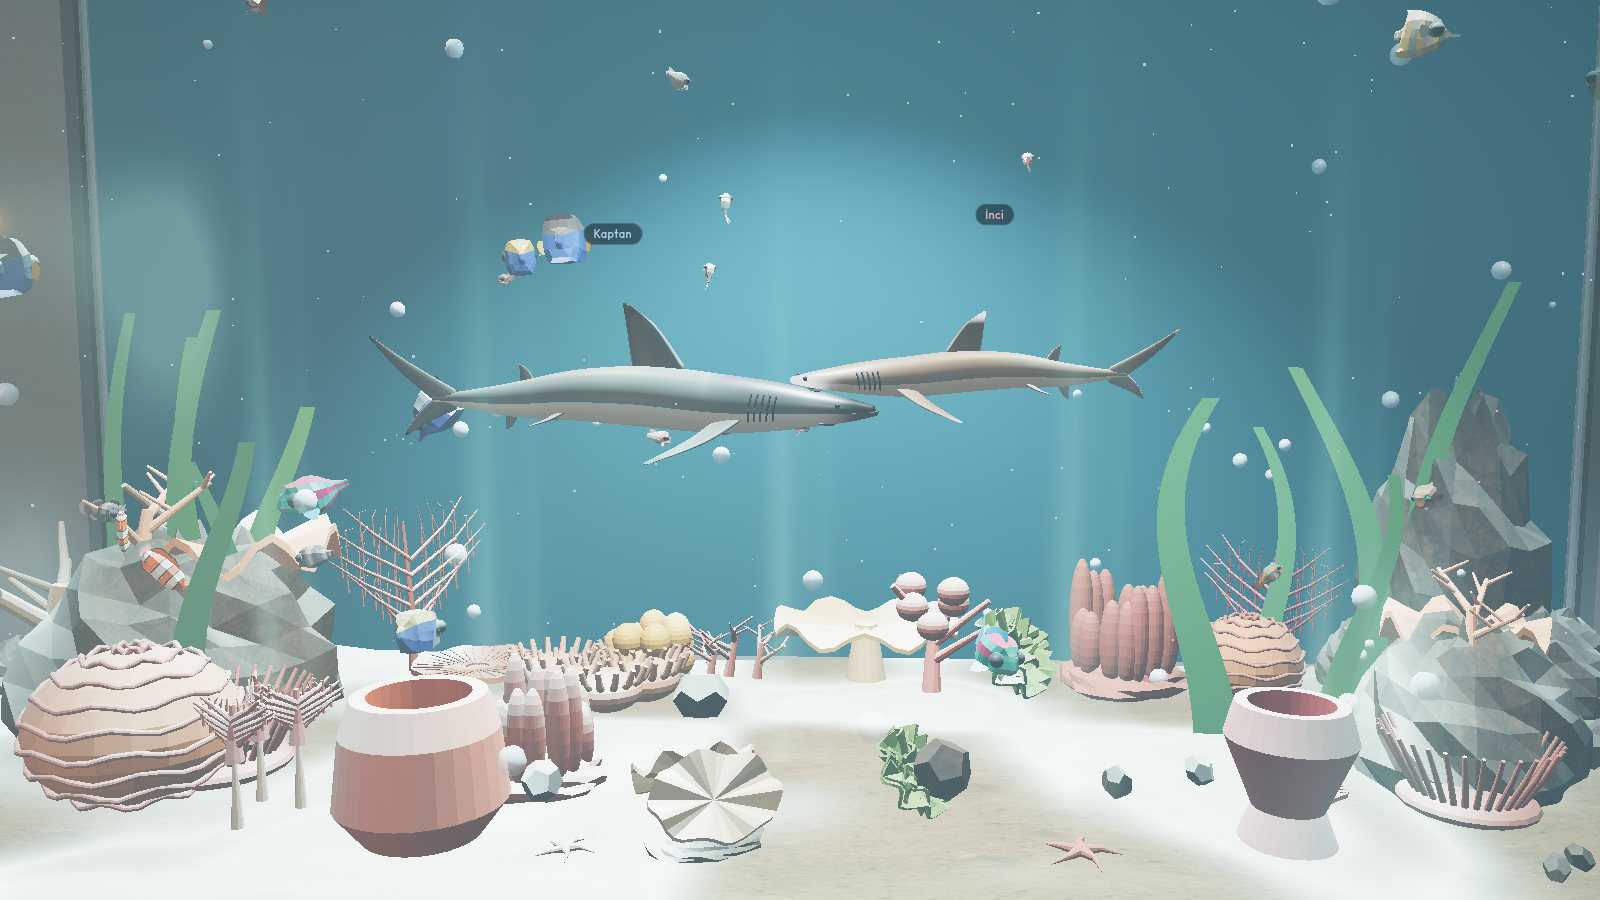
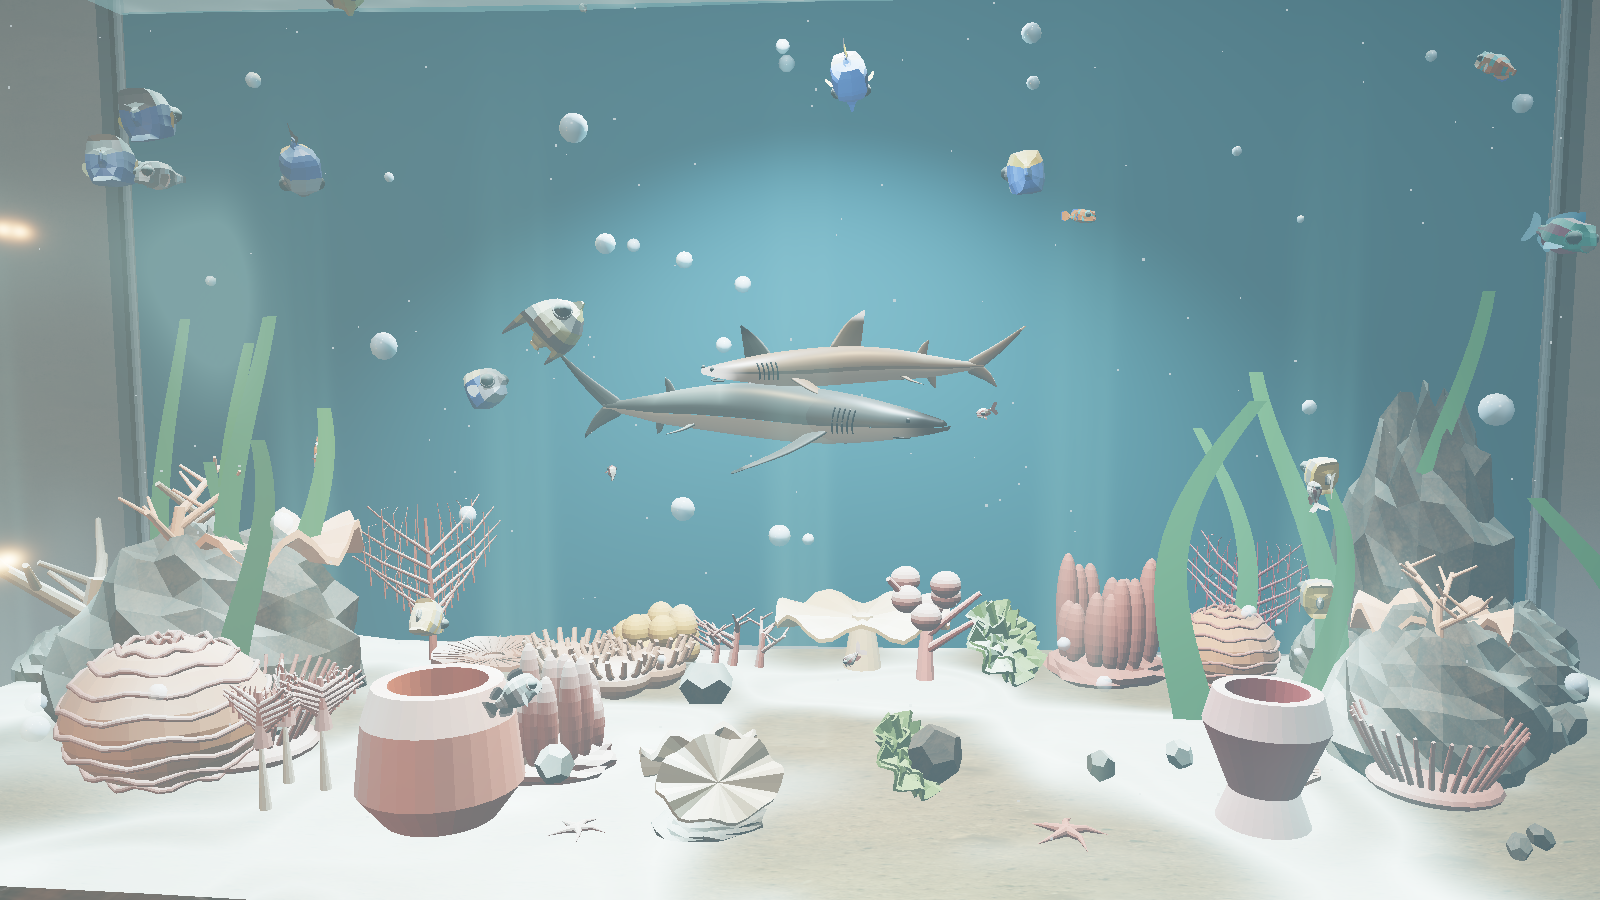
Oda: kanepe, halı ve lamba net görünsün, camda fresnel yansıması
Kanepe öne alındı ve büyütüldü, halı ve sehpa kadraja girdi, lamba daha
sıcak parlıyor, sol duvara bir tablo ve ön cama hafif fresnel eklendi.
Orta/llvmpipe görüntüleri temiz.

diff --git a/js/world.js b/js/world.js
@@ -323,9 +323,9 @@ export async function createWorld(canvas, quality, manager) {
   scene.background = new THREE.Color(0x0a0808);
   scene.fog = null;
 
-  const camera = new THREE.PerspectiveCamera(quality.mobile ? 52 : 42, 1, 0.1, 60);
-  camera.position.set(1.55, 1.42, 5.65);
-  camera.lookAt(0.0, 0.68, 0.2);
+  const camera = new THREE.PerspectiveCamera(quality.mobile ? 54 : 44, 1, 0.1, 60);
+  camera.position.set(1.85, 1.36, 5.45);
+  camera.lookAt(0.05, 0.62, 0.2);
 
   const renderer = new THREE.WebGLRenderer({
     canvas,
@@ -433,6 +433,7 @@ export async function createWorld(canvas, quality, manager) {
 
   const glass = makeGlass(quality);
   root.add(glass);
+  root.add(makeFrontGlassFresnel());
 
   const frame = makeFrame();
   root.add(frame);
@@ -444,7 +445,7 @@ export async function createWorld(canvas, quality, manager) {
   const controls = new OrbitControls(camera, renderer.domElement);
   controls.enableDamping = true;
   controls.dampingFactor = 0.07;
-  controls.target.set(0.0, 0.68, 0.2);
+  controls.target.set(0.05, 0.62, 0.2);
   controls.minDistance = 1.35;
   controls.maxDistance = 8.0;
   controls.minPolarAngle = 0.78;
@@ -697,12 +698,12 @@ function buildLivingRoom(tex, quality) {
 
   // rug
   const rug = makeRug();
-  rug.position.set(0.35, floorY + 0.008, 2.05);
+  rug.position.set(0.55, floorY + 0.008, 1.55);
   g.add(rug);
 
   // coffee table
   const table = makeCoffeeTable(tex);
-  table.position.set(0.15, floorY, 1.85);
+  table.position.set(0.45, floorY, 1.45);
   g.add(table);
 
   // floor lamp
@@ -747,10 +748,10 @@ async function loadSofa(group, manager) {
     sofa.updateMatrixWorld(true);
     const box = new THREE.Box3().setFromObject(sofa);
     const size = box.getSize(new THREE.Vector3());
-    const scale = 2.35 / Math.max(size.x, 0.001);
+    const scale = 2.85 / Math.max(size.x, 0.001);
     sofa.scale.setScalar(scale);
-    sofa.rotation.y = Math.PI + 0.18;
-    sofa.position.set(2.05, ROOM.floorY - box.min.y * scale, 2.05);
+    sofa.rotation.y = Math.PI + 0.32;
+    sofa.position.set(2.35, ROOM.floorY - box.min.y * scale, 1.62);
     group.add(sofa);
   } catch (e) {
     console.warn("Sofa failed", e);
@@ -793,7 +794,7 @@ function makeRug() {
   const mat = new THREE.MeshStandardMaterial({
     map: tex, roughness: 0.9, metalness: 0, color: 0xffffff,
   });
-  const m = new THREE.Mesh(new THREE.PlaneGeometry(2.8, 3.6), mat);
+  const m = new THREE.Mesh(new THREE.PlaneGeometry(3.2, 3.2), mat);
   m.rotation.x = -Math.PI / 2;
   m.receiveShadow = true;
   return m;
@@ -833,15 +834,15 @@ function makeFloorLamp() {
   g.add(base);
   const shadeMat = new THREE.MeshStandardMaterial({
     color: 0xf0d6a8,
-    emissive: new THREE.Color(0xffc070),
-    emissiveIntensity: 0.9,
+    emissive: new THREE.Color(0xffd090),
+    emissiveIntensity: 1.8,
     roughness: 0.6,
     side: THREE.DoubleSide,
   });
   const shade = new THREE.Mesh(new THREE.ConeGeometry(0.22, 0.28, 16, 1, true), shadeMat);
   shade.position.y = 1.52;
   g.add(shade);
-  const bulb = new THREE.PointLight(0xffc070, 2.4, 5.5, 1.8);
+  const bulb = new THREE.PointLight(0xffc070, 3.8, 6.5, 1.6);
   bulb.position.set(0, 1.42, 0);
   bulb.castShadow = false;
   g.add(bulb);
@@ -885,6 +886,64 @@ function makePlant() {
     g.add(leaf);
   }
   return g;
+}
+
+
+function makeSidePicture() {
+  const g = new THREE.Group();
+  const wood = new THREE.MeshStandardMaterial({ color: 0x3a2a16, roughness: 0.4, metalness: 0.15 });
+  const c = document.createElement("canvas");
+  c.width = 512; c.height = 384;
+  const ctx = c.getContext("2d");
+  const grd = ctx.createLinearGradient(0, 0, 0, 384);
+  grd.addColorStop(0, "#1a3040");
+  grd.addColorStop(0.45, "#24545c");
+  grd.addColorStop(0.7, "#c48a58");
+  grd.addColorStop(1, "#3a2014");
+  ctx.fillStyle = grd;
+  ctx.fillRect(0, 0, 512, 384);
+  ctx.fillStyle = "rgba(255,220,160,0.18)";
+  ctx.beginPath(); ctx.arc(360, 90, 70, 0, 6.28); ctx.fill();
+  ctx.fillStyle = "#1a2820";
+  ctx.fillRect(0, 250, 512, 134);
+  const tex = new THREE.CanvasTexture(c);
+  tex.colorSpace = THREE.SRGBColorSpace;
+  const frame = new THREE.Mesh(new THREE.BoxGeometry(0.92, 0.7, 0.04), wood);
+  const art = new THREE.Mesh(new THREE.PlaneGeometry(0.8, 0.58), new THREE.MeshStandardMaterial({ map: tex, roughness: 0.7 }));
+  art.position.z = 0.022;
+  g.add(frame); g.add(art);
+  // left wall, visible near the lamp
+  g.position.set(ROOM.minX + 0.04, 1.32, 1.85);
+  g.rotation.y = Math.PI / 2;
+  return g;
+}
+
+function makeFrontGlassFresnel() {
+  const mat = new THREE.ShaderMaterial({
+    transparent: true,
+    depthWrite: false,
+    side: THREE.DoubleSide,
+    uniforms: {},
+    vertexShader: /* glsl */ `
+      varying vec3 vN; varying vec3 vV;
+      void main() {
+        vec4 mv = modelViewMatrix * vec4(position, 1.0);
+        vN = normalize(normalMatrix * normal);
+        vV = normalize(-mv.xyz);
+        gl_Position = projectionMatrix * mv;
+      }`,
+    fragmentShader: /* glsl */ `
+      varying vec3 vN; varying vec3 vV;
+      void main() {
+        float f = pow(1.0 - abs(dot(normalize(vN), normalize(vV))), 2.6);
+        vec3 col = mix(vec3(0.55, 0.78, 0.82), vec3(0.95, 0.98, 1.0), f);
+        gl_FragColor = vec4(col, 0.035 + f * 0.32);
+      }`,
+  });
+  const m = new THREE.Mesh(new THREE.PlaneGeometry(TANK.w - 0.04, TANK.h - 0.04), mat);
+  m.position.set(0, TANK.h / 2, TANK.d / 2 + 0.02);
+  m.renderOrder = 4;
+  return m;
 }
 
 function makeFrames() {

diff --git a/index.html b/index.html
@@ -138,6 +138,6 @@
       </form>
     </div>
   </div>
-  <script type="module" src="js/main.js?v=20261121t"></script>
+  <script type="module" src="js/main.js?v=20261121u"></script>
 </body>
 </html>
